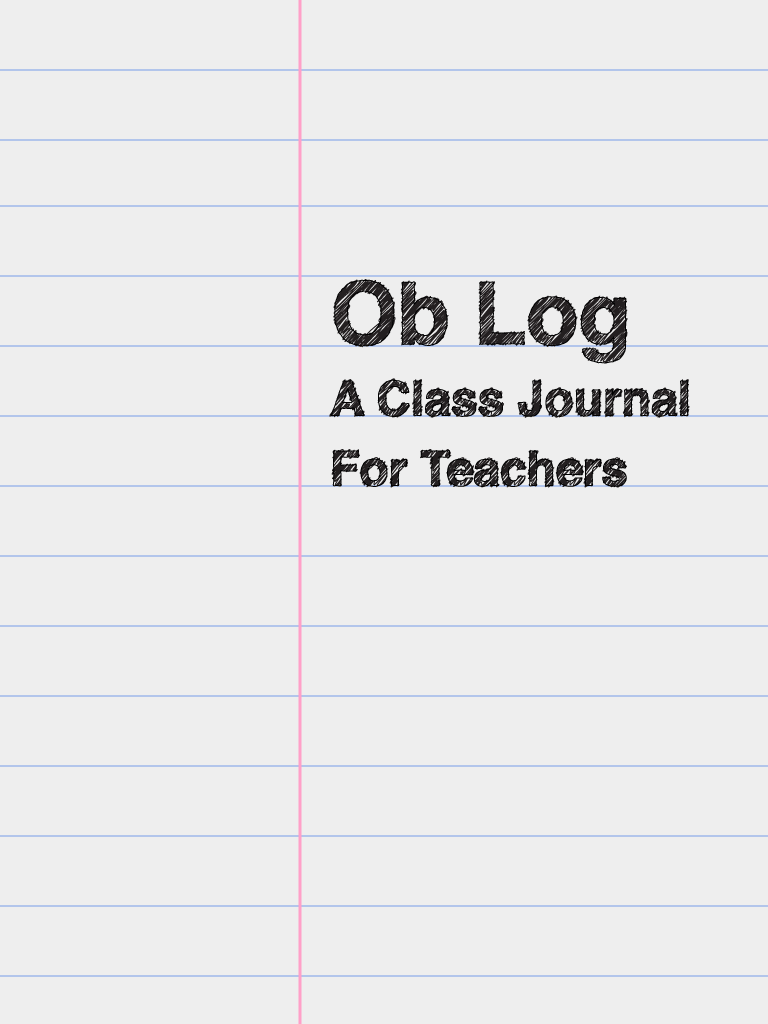
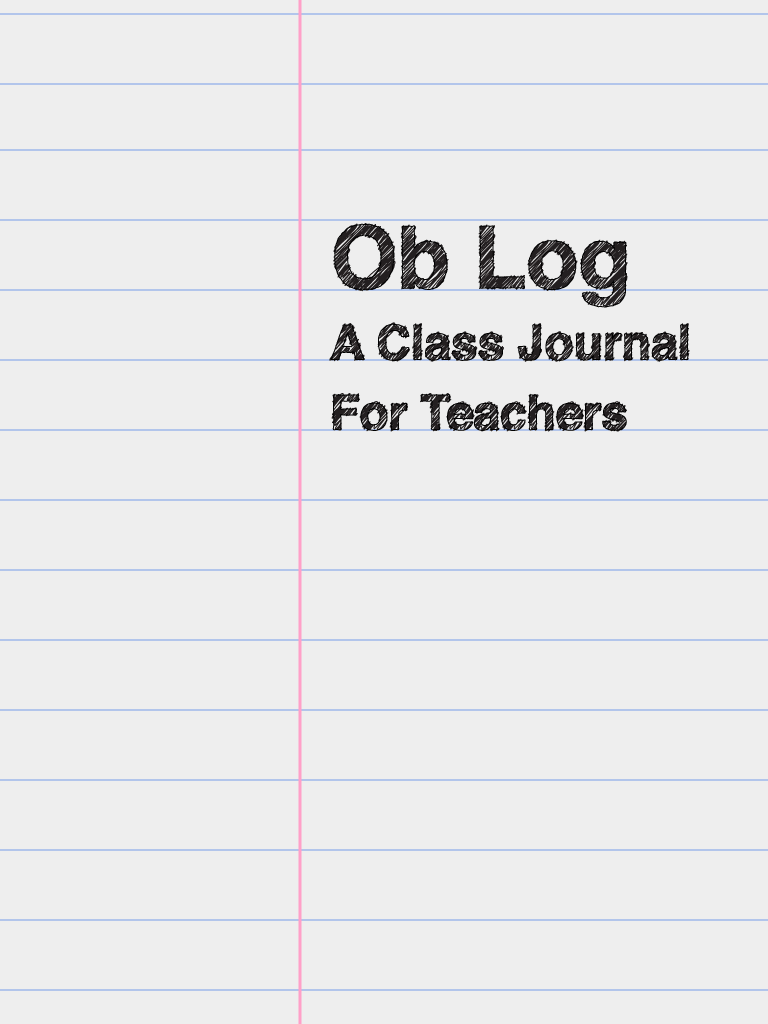
timer and block animations to curl new launch image away

diff --git a/Ob Log/RootViewController.m b/Ob Log/RootViewController.m
@@ -10,6 +10,7 @@
 #define VIEW_CONTROLLER_COURSE      1
 #define VIEW_CONTROLLER_DAILYEDIT   2
 #define SPLASH                      77
+#define CON                         88
 
 #import "RootViewController.h"
 
@@ -32,6 +33,7 @@
                                                            self.coursesViewController.view.frame.size.width, 
                                                            self.coursesViewController.view.frame.size.height);
         [self setCurrentViewController:VIEW_CONTROLLER_COURSES];
+        NSLog(@"initWithNibName");
     }
     return self;
 }
@@ -56,13 +58,21 @@
 // Implement loadView to create a view hierarchy programmatically, without using a nib.
 - (void)loadView
 {
-    UIView *view = [[UIView alloc] initWithFrame:CGRectMake(0, 0, 768, 1004)];
+    NSLog(@"loadView");
+    UIView *view = [[UIView alloc] initWithFrame:CGRectMake(0, 0, 768, 1024)];
     [view setBackgroundColor:[UIColor scrollViewTexturedBackgroundColor]];
     
     UIImageView *splash = [[UIImageView alloc] initWithImage:[UIImage imageNamed:@"Default-Portrait~ipad.png"]];
     splash.frame = CGRectMake(splash.frame.origin.x, splash.frame.origin.y - 20, splash.frame.size.width, splash.frame.size.height);
     [splash setTag:SPLASH];
+    [splash setUserInteractionEnabled:YES];
+    [splash addGestureRecognizer:[[UITapGestureRecognizer alloc] initWithTarget:self action:@selector(curlAway)]];
     
+    UIView *container = [[UIView alloc] initWithFrame:CGRectMake(0, 20, 300, 300)];
+    [container setTag:CON];
+    [container setClipsToBounds:YES];
+    
+    [container addSubview:splash];
     [view addSubview:self.coursesViewController.view];
     [view addSubview:splash];
     
@@ -70,19 +80,21 @@
     [view release];
 }
 
-// Implement viewDidLoad to do additional setup after loading the view, typically from a nib.
-- (void)viewDidLoad
+- (void)viewDidAppear:(BOOL)animated
 {
-    [super viewDidLoad];
-    NSLog(@"VDL");
-    NSTimer *timer = [NSTimer scheduledTimerWithTimeInterval:2 target:self selector:@selector(timerFireMethod:) userInfo:nil repeats:NO];
+    NSLog(@"VDA and [self.view viewWithTag:SPLASH]: %@", [self.view viewWithTag:SPLASH]);
+    NSTimer *timer = [NSTimer timerWithTimeInterval:1 target:self selector:@selector(timerFireMethod:) userInfo:nil repeats:NO];
     [[NSRunLoop currentRunLoop] addTimer:timer forMode:NSRunLoopCommonModes];
 }
 
-- (void)timerFireMethod:(NSTimer *)theTimer
+- (void)timerFireMethod:(NSTimer*)theTimer
 {
-    NSLog(@"FIRE TIMER: %@", theTimer);
-    [[self.view viewWithTag:SPLASH] removeFromSuperview];
+    NSLog(@"curl away");
+    [UIView transitionWithView:self.view 
+                      duration:.6
+                       options:UIViewAnimationOptionTransitionCurlUp | UIViewAnimationOptionCurveEaseInOut
+                    animations:^ { [[self.view viewWithTag:SPLASH] removeFromSuperview]; }
+                    completion:nil];
 }
 
 - (void)viewDidUnload
@@ -109,7 +121,7 @@
 
 #pragma mark - delegation
 
-- (void)loadCourseViewControllerForCourse:(Course *)course
+/*- (void)loadCourseViewControllerForCourse:(Course *)course
 {
     self.courseViewController = nil;
     if (self.courseViewController == nil)
@@ -125,14 +137,14 @@
         [self.courseViewController setDelegate:self];
     }
     
-    [UIView beginAnimations:@"View Flip" context:nil];
-    [UIView setAnimationDuration:.5];
-    [UIView setAnimationCurve:UIViewAnimationCurveEaseInOut];
+    //[UIView beginAnimations:@"View Flip" context:nil];
+    //[UIView setAnimationDuration:.6];
+    //[UIView setAnimationCurve:UIViewAnimationCurveEaseInOut];
     
     UIViewController *coming = nil;
     UIViewController *going = nil;
-    UIViewAnimationTransition transition;
-    transition = UIViewAnimationTransitionCurlUp;
+    UIViewAnimationOptions transition;
+    transition = UIViewAnimationOptionTransitionCurlUp;
     coming = self.courseViewController;
     switch (self.currentViewController) {
         case VIEW_CONTROLLER_COURSES:
@@ -140,24 +152,31 @@
             break;
         case VIEW_CONTROLLER_DAILYEDIT:
             going = self.dailyEditViewController;
-            transition = UIViewAnimationTransitionCurlDown;
+            transition = UIViewAnimationOptionTransitionCurlDown;
             break;
             
         default:
             break;
     }
     
-    [UIView setAnimationTransition: transition forView:self.view cache:YES];
-    [coming viewWillAppear:YES];
-    [going viewWillDisappear:YES];
-    [going.view removeFromSuperview];
-    [self.view insertSubview: coming.view atIndex:0];
-    [going viewDidDisappear:YES];
-    [coming viewDidAppear:YES];
     
-    [UIView commitAnimations];
+    [UIView transitionWithView:self.view 
+                      duration:.6
+                       options:transition
+                    animations:^ { [self.view insertSubview: coming.view atIndex:0]; [going.view removeFromSuperview]; }
+                    completion:nil];
+    
+    //[UIView setAnimationTransition: transition forView:self.view cache:YES];
+    //[coming viewWillAppear:YES];
+    //[going viewWillDisappear:YES];
+    //[going.view removeFromSuperview];
+    //[self.view insertSubview: coming.view atIndex:0];
+    //[going viewDidDisappear:YES];
+    //[coming viewDidAppear:YES];
+    
+    //[UIView commitAnimations];
     [self setCurrentViewController:VIEW_CONTROLLER_COURSE];
-}
+}*/
 
 - (void)didTouchCoursesList
 {
@@ -170,7 +189,7 @@
     [self.dailyEditViewController setManagedObjectContext:self.managedObjectContext];
     
     [UIView beginAnimations:@"View Flip" context:nil];
-    [UIView setAnimationDuration:.5];
+    [UIView setAnimationDuration:.6];
     [UIView setAnimationCurve:UIViewAnimationCurveEaseInOut];
     
     UIViewController *coming = nil;
@@ -216,7 +235,7 @@
     }
     
     [UIView beginAnimations:@"View Flip" context:nil];
-    [UIView setAnimationDuration:.5];
+    [UIView setAnimationDuration:.6];
     [UIView setAnimationCurve:UIViewAnimationCurveEaseInOut];
     
     UIViewController *coming = nil;
@@ -250,23 +269,15 @@
 
 - (void)loadDailyEditViewForCourse:(Course *)course andDate:(NSDate *)date
 {
-    self.dailyEditViewController = nil;
+    NSLog(@"loadload--");
     self.dailyEditViewController = [[DailyEditViewController alloc] initWithNibName:nil bundle:nil];
-    self.dailyEditViewController.view.frame = CGRectMake(0, 
-                                                         0, 
-                                                         self.dailyEditViewController.view.frame.size.width, 
-                                                         self.dailyEditViewController.view.frame.size.height);
     [self.dailyEditViewController setManagedObjectContext:self.managedObjectContext];
     [self.dailyEditViewController loadStudentsForCourse:course andDate:date];
     [self.dailyEditViewController setDelegate:self];
     
-    [UIView beginAnimations:@"View Flip" context:nil];
-    [UIView setAnimationDuration:.5];
-    [UIView setAnimationCurve:UIViewAnimationCurveEaseInOut];
-    
     UIViewController *coming = nil;
     UIViewController *going = nil;
-    UIViewAnimationTransition transition;
+    UIViewAnimationOptions transition;
     coming = self.dailyEditViewController;
     switch (self.currentViewController) {
         case VIEW_CONTROLLER_COURSE:
@@ -279,17 +290,14 @@
         default:
             break;
     }
-    transition = UIViewAnimationTransitionCurlUp;
+    transition = UIViewAnimationOptionTransitionCurlUp | UIViewAnimationOptionCurveEaseInOut;
     
-    [UIView setAnimationTransition: transition forView:self.view cache:YES];
-    [coming viewWillAppear:YES];
-    [going viewWillDisappear:YES];
-    [going.view removeFromSuperview];
-    [self.view insertSubview: coming.view atIndex:0];
-    [going viewDidDisappear:YES];
-    [coming viewDidAppear:YES];
+    [UIView transitionWithView:self.view 
+                      duration:.6
+                       options:transition
+                    animations:^ { [self.view insertSubview: coming.view atIndex:0]; [going.view removeFromSuperview]; }
+                    completion:nil];
     
-    [UIView commitAnimations];
     [self setCurrentViewController:VIEW_CONTROLLER_DAILYEDIT];
 }
 
